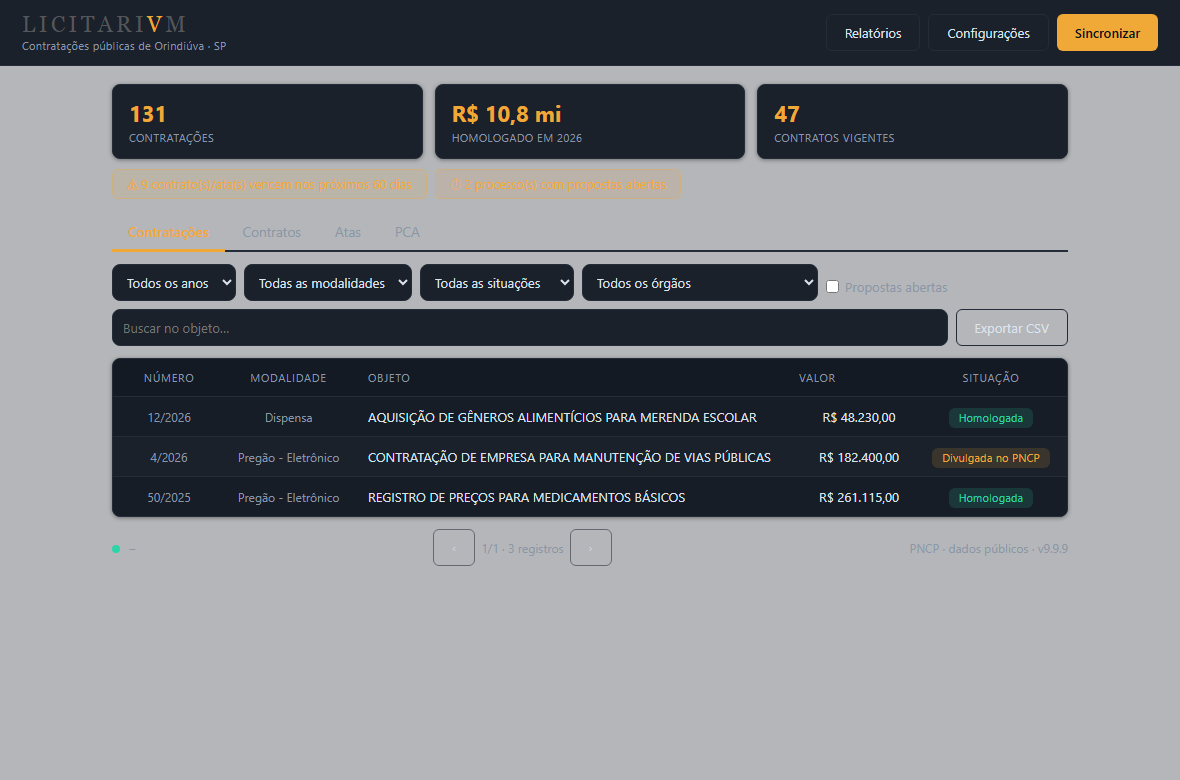
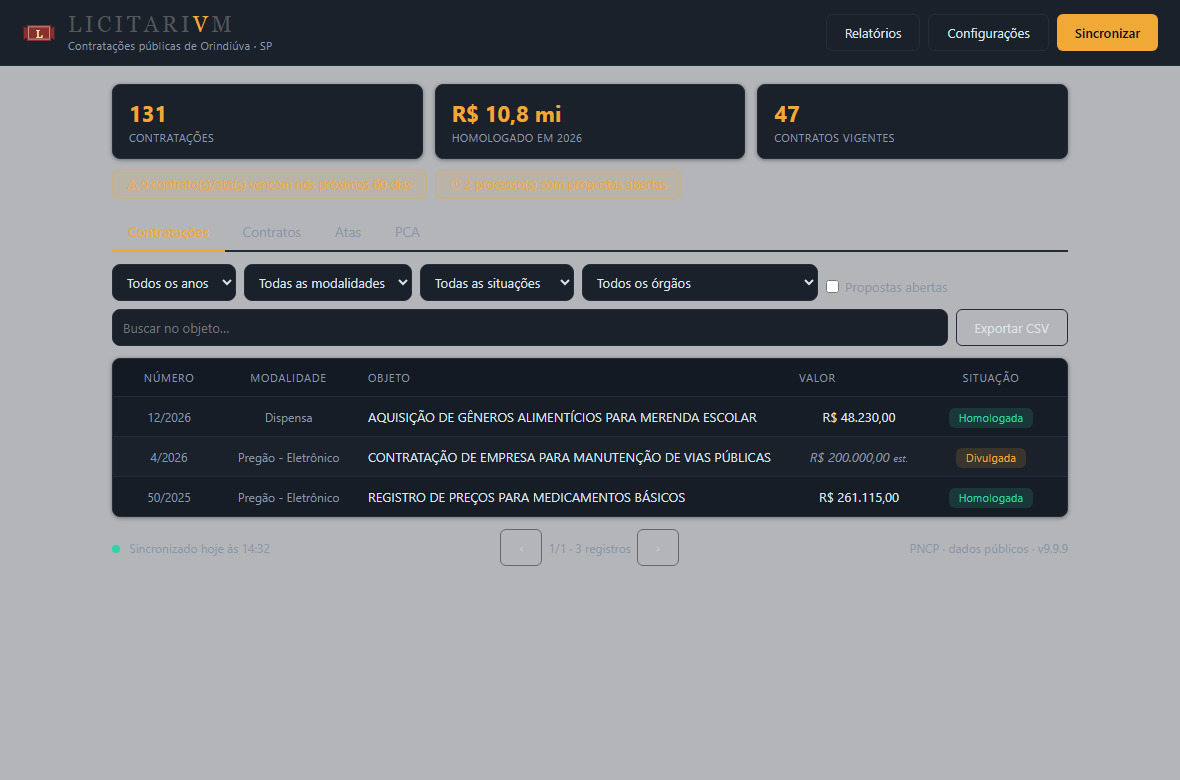
feat: refino estetico - valor estimado marcado, selo no cabecalho e mais
- valor sem homologacao sai em italico com "est." e title explicativo
  (antes um processo em andamento parecia ter valor final)
- selo (tabula ansata) ao lado do wordmark no cabecalho
- rodape mostra "Sincronizado hoje as HH:MM" (do sync_log) no lugar de "-"
- estado vazio contextual com selo em marca d'agua: sem filtro oferece
  sincronizar, com filtro oferece limpar
- botao "Limpar filtros" aparece quando ha filtro ativo
- barras de rolagem na paleta do tema
- badge de situacao encurtada ("Divulgada"), texto completo no title
- titulo da janela com municipio (Licitarium - Orindiuva/SP)
- densidade das listas (confortavel/compacta) nas configuracoes
- 6 testes E2E novos (13 no total)

diff --git a/ui/index.html b/ui/index.html
@@ -31,6 +31,17 @@
 
   .mark { font-family:Georgia,'Times New Roman',serif; letter-spacing:.16em; }
   .mark b { color:var(--mark-v); font-weight:400; }
+  .marca { display:flex; align-items:center; gap:12px; }
+  .marca > svg { flex:none; width:34px; height:34px; }
+
+  /* barras de rolagem na paleta do tema */
+  * { scrollbar-color: var(--border) transparent; scrollbar-width: thin; }
+  ::-webkit-scrollbar { width:11px; height:11px; }
+  ::-webkit-scrollbar-track { background:transparent; }
+  ::-webkit-scrollbar-thumb { background:var(--border); border-radius:6px;
+    border:2px solid transparent; background-clip:content-box; }
+  ::-webkit-scrollbar-thumb:hover { background:var(--muted);
+    background-clip:content-box; }
 
   button { font-family:var(--font-ui); cursor:pointer; }
   .btn { background:var(--accent); color:var(--accent-fg); border:none;
@@ -106,11 +117,15 @@
 
   .filtros { display:flex; gap:8px; margin-bottom:12px; flex-wrap:wrap; }
   .filtros input[type=search] { flex:1; min-width:170px; }
+  #btn-limpar { white-space:nowrap; }
 
   .lista { overflow:hidden; }
   .linha { display:grid; gap:12px; padding:11px 16px; align-items:center;
            font-size:13px; cursor:pointer; border:none; background:none;
            width:100%; text-align:left; color:var(--text); }
+  [data-densidade="compacta"] .linha { padding:6px 12px; font-size:12.5px; }
+  [data-densidade="compacta"] .kpi { padding:9px 13px; }
+  [data-densidade="compacta"] .kpi .n { font-size:19px; }
   .linha:not(.cab):nth-child(even) {
     background:color-mix(in srgb, var(--surface2) 55%, var(--surface)); }
   .linha:hover, .linha:focus { background:var(--surface2); }
@@ -135,6 +150,9 @@
          white-space:nowrap; }
   [data-theme="pergaminho"] .num { font-family:Georgia,serif; }
   .dim { color:var(--muted); font-size:12px; }
+  /* valor sem homologação: é estimativa, não pode passar por valor final */
+  .est { font-style:italic; color:var(--muted); }
+  .est small { font-size:9.5px; letter-spacing:.04em; }
   /* colunas curtas centralizadas (mesmo tratamento dos relatórios) */
   .g-contratacoes > :nth-child(1), .g-contratacoes > :nth-child(2),
   .g-contratacoes > :nth-child(5),
@@ -142,7 +160,10 @@
   .g-atas > :nth-child(1), .g-atas > :nth-child(2), .g-atas > :nth-child(4),
   .g-pca > :nth-child(1), .g-pca > :nth-child(3) { text-align:center; }
   .linha .obj { display:block; text-align:justify; hyphens:auto; }
-  .vazio { padding:34px; text-align:center; color:var(--muted); font-size:13px; }
+  .vazio { padding:30px 34px 34px; text-align:center; color:var(--muted);
+           font-size:13px; }
+  .vazio svg { width:74px; height:74px; opacity:.28; margin-bottom:6px; }
+  .vazio p { margin-bottom:12px; }
 
   .rodape { display:flex; justify-content:space-between; align-items:center;
             margin-top:12px; font-size:12px; color:var(--muted); gap:10px; flex-wrap:wrap; }
@@ -227,7 +248,10 @@
 <!-- ═══ APP ═══ -->
 <div id="app" class="oculto">
   <header>
-    <div class="mark">LICITARI<b>V</b>M<small id="sub-municipio"></small></div>
+    <div class="marca">
+      <svg viewBox="0 0 64 64" aria-hidden="true" id="svg-selo"></svg>
+      <div class="mark">LICITARI<b>V</b>M<small id="sub-municipio"></small></div>
+    </div>
     <div style="display:flex; gap:8px">
       <button class="btn ghost" id="btn-relatorios">Relatórios</button>
       <button class="btn ghost" id="btn-config">Configurações</button>
@@ -270,6 +294,7 @@
         <input type="checkbox" id="f-vigentes"> Vigentes</label>
       <input type="search" id="f-busca" placeholder="Buscar no objeto…"
              aria-label="Buscar">
+      <button class="btn ghost oculto" id="btn-limpar">✕ Limpar filtros</button>
       <button class="btn ghost" id="btn-csv">Exportar CSV</button>
     </div>
     <div class="card lista" id="lista"></div>
@@ -373,6 +398,11 @@
         <option value="grande">Grande</option>
         <option value="extra">Extra grande</option>
       </select>
+      <label for="cfg-densidade">Densidade das listas</label>
+      <select id="cfg-densidade" style="width:100%">
+        <option value="confortavel">Confortável — linhas com respiro</option>
+        <option value="compacta">Compacta — mais registros na tela</option>
+      </select>
     </div>
     <div class="card cfg">
       <h2>Município</h2>
@@ -448,6 +478,16 @@ const ESTANDARTE = `
   <text x="32" y="62.5" font-family="Georgia, serif" font-size="4.6" letter-spacing="1"
         fill="#2b2115" text-anchor="middle">MMXXVI</text>`;
 
+// selo oficial (design/icone-t1.svg): tabula ansata com L capitular
+const SELO = `
+  <polygon points="11,25 3,19 3,45 11,39" fill="#8b2e2e"/>
+  <polygon points="53,25 61,19 61,45 53,39" fill="#8b2e2e"/>
+  <rect x="9" y="17" width="46" height="30" fill="#8b2e2e"/>
+  <rect x="12.5" y="20.5" width="39" height="23" fill="none" stroke="#f5efe2"
+        stroke-width="1.4" opacity=".7"/>
+  <text x="32" y="40.5" font-family="Georgia, 'Times New Roman', serif"
+        font-size="21" fill="#f5efe2" text-anchor="middle">L</text>`;
+
 const estado = { tipo:"contratacoes", pagina:1, total:0, municipio:null,
                  ord:null, dir:"desc" };
 let api = null;
@@ -457,10 +497,12 @@ window.addEventListener("pywebviewready", async () => {
   api = window.pywebview.api;
   document.querySelectorAll("#svg-estandarte-wiz, #svg-estandarte-sobre")
     .forEach(s => s.innerHTML = ESTANDARTE);
+  $("svg-selo").innerHTML = SELO;
   const e = await api.get_estado();
   aplicarTema(e.tema || "portal", false);
   aplicarLargura(e.largura || "compacta", false);
   aplicarFonte(e.fonte || "normal", false);
+  aplicarDensidade(e.densidade || "confortavel", false);
   $("sobre-versao").textContent = e.versao;
   $("rodape-versao").textContent = `PNCP · dados públicos · v${e.versao}`;
   if (!e.ibge) { iniciarWizard(); return; }
@@ -491,6 +533,14 @@ function aplicarFonte(v, salvar = true) {
 }
 $("cfg-fonte").addEventListener("change",
   () => aplicarFonte($("cfg-fonte").value));
+
+function aplicarDensidade(v, salvar = true) {
+  document.documentElement.dataset.densidade = v;
+  $("cfg-densidade").value = v;
+  if (salvar && api) api.set_config("densidade", v);
+}
+$("cfg-densidade").addEventListener("change",
+  () => aplicarDensidade($("cfg-densidade").value));
 
 // ── wizard ────────────────────────────────────────────────────────────────
 let wizEscolha = null;
@@ -537,6 +587,8 @@ async function iniciarApp(e) {
   $("app").classList.remove("oculto");
   $("sub-municipio").textContent =
     `Contratações públicas de ${e.municipio} · ${e.uf}`;
+  api.set_titulo(`Licitarium — ${e.municipio}/${e.uf}`);
+  mostrarUltimaSync(e.sincronizado_em);
   renderKpis(e.kpis);
   await carregarFiltros();
   await carregarLista();
@@ -558,6 +610,16 @@ async function iniciarApp(e) {
       if (!r.ok) alvo.textContent = `Falha na atualização: ${r.erro}`;
     });
   });
+}
+
+function mostrarUltimaSync(iso) {
+  if (!iso) { $("sync-msg").textContent = "nunca sincronizado"; return; }
+  const d = new Date(iso);
+  const hora = d.toLocaleTimeString("pt-BR", {hour:"2-digit", minute:"2-digit"});
+  const hoje = new Date().toDateString() === d.toDateString();
+  $("sync-msg").textContent = hoje
+    ? `Sincronizado hoje às ${hora}`
+    : `Sincronizado em ${d.toLocaleDateString("pt-BR")} às ${hora}`;
 }
 
 function renderKpis(k) {
@@ -613,6 +675,23 @@ function filtrosAtuais() {
 }
 
 // [rótulo, chave de ordenação na whitelist do backend — null = não ordenável]
+const CAMPOS_FILTRO = ["f-ano", "f-modalidade", "f-situacao", "f-orgao",
+                       "f-busca"];
+const CAIXAS_FILTRO = ["f-propostas", "f-vigentes"];
+
+function temFiltroAtivo() {
+  return CAMPOS_FILTRO.some(id => $(id).value)
+      || CAIXAS_FILTRO.some(id => $(id).checked);
+}
+
+function limparFiltros() {
+  CAMPOS_FILTRO.forEach(id => $(id).value = "");
+  CAIXAS_FILTRO.forEach(id => $(id).checked = false);
+  estado.pagina = 1;
+  carregarLista();
+}
+$("btn-limpar").addEventListener("click", limparFiltros);
+
 const COLUNAS = {
   contratacoes: [["Número","numero"], ["Modalidade","modalidade"],
                  ["Objeto","objeto"], ["Valor","valor"],
@@ -639,7 +718,19 @@ function badgeSituacao(s) {
   if (!s) return `<span class="badge mut">–</span>`;
   const cl = /homolog/i.test(s) ? "ok" : /divulgad|aberta|andamento/i.test(s)
     ? "warn" : "mut";
-  return `<span class="badge ${cl}">${esc(s)}</span>`;
+  // "Divulgada no PNCP" -> "Divulgada" (o contexto todo é o PNCP)
+  const curto = String(s).replace(/\s+no\s+PNCP$/i, "");
+  return `<span class="badge ${cl}" title="${esc(s)}">${esc(curto)}</span>`;
+}
+
+// valor da contratação: homologado é definitivo, estimado é estimativa —
+// exibir os dois igual faria um processo em andamento parecer fechado
+function valorContratacao(d) {
+  if (d.valor_homologado != null) return dinheiro(d.valor_homologado);
+  if (d.valor_estimado != null)
+    return `<span class="est" title="Valor estimado — sem homologação
+      registrada no PNCP">${dinheiro(d.valor_estimado)} <small>est.</small></span>`;
+  return "–";
 }
 
 function renderLinha(tipo, d) {
@@ -647,7 +738,7 @@ function renderLinha(tipo, d) {
     return `<span class="dim">${d.sequencial ?? "–"}/${d.ano ?? ""}</span>
       <span class="dim">${esc(d.modalidade_nome ?? "–")}</span>
       <span class="obj">${esc(d.objeto ?? "–")}</span>
-      <span class="num">${dinheiro(d.valor_homologado ?? d.valor_estimado)}</span>
+      <span class="num">${valorContratacao(d)}</span>
       <span style="justify-self:center">${badgeSituacao(d.situacao)}</span>`;
   if (tipo === "contratos")
     return `<span class="dim">${esc(numContrato(d))}</span>
@@ -682,8 +773,19 @@ async function carregarLista() {
   const linhas = r.itens.map(d =>
     `<button class="linha ${g}" data-nc="${esc(d.numero_controle ?? d.id)}">` +
     renderLinha(estado.tipo, d) + `</button>`).join("");
-  $("lista").innerHTML = cab + (linhas ||
-    `<div class="vazio">Nenhum registro. Sincronize ou ajuste os filtros.</div>`);
+  const comFiltro = temFiltroAtivo();
+  $("btn-limpar").classList.toggle("oculto", !comFiltro);
+  const vazio = comFiltro
+    ? `<div class="vazio"><svg viewBox="0 0 64 64" aria-hidden="true">${SELO}</svg>
+        <p>Nenhum registro para estes filtros.</p>
+        <button class="btn ghost" id="vazio-limpar">✕ Limpar filtros</button></div>`
+    : `<div class="vazio"><svg viewBox="0 0 64 64" aria-hidden="true">${SELO}</svg>
+        <p>Nada neste acervo ainda.<br>Sincronize para baixar o que o município
+        publicou no PNCP.</p>
+        <button class="btn" id="vazio-sync">Sincronizar agora</button></div>`;
+  $("lista").innerHTML = cab + (linhas || vazio);
+  $("vazio-limpar")?.addEventListener("click", limparFiltros);
+  $("vazio-sync")?.addEventListener("click", () => api.sincronizar());
   $("lista").querySelectorAll("button.linha[data-nc]").forEach(b =>
     b.addEventListener("click", () => abrirDetalhe(b.dataset.nc)));
   $("lista").querySelectorAll(".cab span[data-ord]").forEach(s => {
@@ -954,7 +1056,7 @@ document.addEventListener("keydown", e => {
 $("btn-sync").addEventListener("click", () => api.sincronizar());
 window.onSyncProgresso = st => {
   $("sync-dot").classList.toggle("rodando", st.rodando);
-  $("sync-msg").textContent = st.rodando ? st.msg : "–";
+  if (st.rodando && st.msg) $("sync-msg").textContent = st.msg;
   $("btn-sync").disabled = st.rodando;
 };
 window.onSyncFim = async st => {

diff --git a/tests-e2e/app.spec.js b/tests-e2e/app.spec.js
@@ -54,6 +54,51 @@ test("tema troca via configurações e persiste via set_config",
   expect(salvo.v).toBe("observatorio");
 });
 
+test("valor sem homologação é marcado como estimado", async ({ page }) => {
+  const linhas = page.locator(".linha:not(.cab)");
+  // X-1 tem homologado: valor limpo, sem marca
+  await expect(linhas.nth(0).locator(".est")).toHaveCount(0);
+  // X-2 só tem estimado: itálico + "est."
+  await expect(linhas.nth(1).locator(".est")).toContainText("est.");
+  await expect(linhas.nth(1).locator(".est")).toContainText("200.000,00");
+});
+
+test("badge de situação encurtada mantém o texto completo no title",
+    async ({ page }) => {
+  const badge = page.locator(".linha:not(.cab)").nth(1).locator(".badge");
+  await expect(badge).toHaveText("Divulgada");
+  await expect(badge).toHaveAttribute("title", "Divulgada no PNCP");
+});
+
+test("limpar filtros aparece com filtro ativo e restaura a lista",
+    async ({ page }) => {
+  await expect(page.locator("#btn-limpar")).toBeHidden();
+  await page.locator("#f-busca").fill("merenda");
+  await expect(page.locator("#btn-limpar")).toBeVisible();
+  await page.locator("#btn-limpar").click();
+  await expect(page.locator("#f-busca")).toHaveValue("");
+  await expect(page.locator("#btn-limpar")).toBeHidden();
+});
+
+test("selo, título da janela e última sincronização no rodapé",
+    async ({ page }) => {
+  await expect(page.locator("#svg-selo polygon").first()).toBeVisible();
+  const titulo = await page.evaluate(() =>
+    window.__chamadas.find(c => c.metodo === "set_titulo"));
+  expect(titulo.t).toBe("Licitarium — Orindiúva/SP");
+  await expect(page.locator("#sync-msg")).toContainText("Sincronizado");
+});
+
+test("densidade compacta aplica e persiste", async ({ page }) => {
+  await page.locator("#btn-config").click();
+  await page.locator("#cfg-densidade").selectOption("compacta");
+  await expect(page.locator("html"))
+    .toHaveAttribute("data-densidade", "compacta");
+  const salvo = await page.evaluate(() => window.__chamadas.find(
+    c => c.metodo === "set_config" && c.k === "densidade"));
+  expect(salvo.v).toBe("compacta");
+});
+
 test("modal trava o fundo, recebe foco e prende o Tab", async ({ page }) => {
   await page.locator("#btn-relatorios").click();
   await expect(page.locator("body")).toHaveClass(/travado/);

diff --git a/tests-e2e/harness.js b/tests-e2e/harness.js
@@ -12,7 +12,7 @@ const DADOS = {
       situacao: "Homologada", data_publicacao: "2026-03-14" },
     { numero_controle: "X-2", ano: 2026, sequencial: 4,
       modalidade_nome: "Pregão - Eletrônico", objeto: "Contratação de empresa para manutenção de vias públicas",
-      valor_estimado: 200000, valor_homologado: 182400,
+      valor_estimado: 200000, valor_homologado: null,
       situacao: "Divulgada no PNCP", data_publicacao: "2026-05-02" },
     { numero_controle: "X-3", ano: 2025, sequencial: 50,
       modalidade_nome: "Pregão - Eletrônico", objeto: "Registro de preços para medicamentos básicos",
@@ -43,8 +43,9 @@ function scriptPonte() {
     window.pywebview = { api: {
       get_estado: async () => ({ versao: "9.9.9", municipio: "Orindiúva",
         uf: "SP", ibge: "3534203", tema: "portal", largura: "compacta",
+        fonte: "normal", densidade: "confortavel",
         limite_dispensa_compras: "62639.92", limite_dispensa_obras: "125279.84",
-        last_sync: "2026-07-29",
+        last_sync: "2026-07-29", sincronizado_em: "2026-07-29T14:32:00",
         kpis: { contratacoes: 131, homologado_ano: 10828702.73, vigentes: 47,
                 vencendo_60: 9, propostas_abertas: 2 } }),
       filtros_disponiveis: async () => ({ anos: [2026, 2025, 2024],
@@ -65,6 +66,8 @@ function scriptPonte() {
       checar_atualizacao: async () => null,
       set_config: async (k, v) => {
         window.__chamadas.push({ metodo: "set_config", k, v }); return true; },
+      set_titulo: async t => {
+        window.__chamadas.push({ metodo: "set_titulo", t }); return true; },
       listar_orgaos: async () => [],
       ultimo_log: async () => [],
       municipios: async () => [],

diff --git a/licitarium.py b/licitarium.py
@@ -162,6 +162,7 @@ class Api:
                     "tema": cfg.get("tema", "portal"),
                     "largura": cfg.get("largura", "compacta"),
                     "fonte": cfg.get("fonte", "normal"),
+                    "densidade": cfg.get("densidade", "confortavel"),
                     "limite_dispensa_compras":
                         cfg.get("limite_dispensa_compras",
                                 str(relatorios.LIMITE_PADRAO_COMPRAS)),
@@ -169,6 +170,9 @@ class Api:
                         cfg.get("limite_dispensa_obras",
                                 str(relatorios.LIMITE_PADRAO_OBRAS)),
                     "last_sync": cfg.get("last_sync_contratacoes"),
+                    "sincronizado_em": db.execute(
+                        "SELECT MAX(iniciado_em) FROM sync_log"
+                        " WHERE status='ok'").fetchone()[0],
                     "kpis": self._kpis(db)}
         finally:
             db.close()
@@ -198,9 +202,14 @@ class Api:
                 "vencendo_60": vencendo_60,
                 "propostas_abertas": propostas_abertas}
 
+    def set_titulo(self, texto):
+        if self._janela:
+            self._janela.set_title(texto)
+        return True
+
     def set_config(self, chave, valor):
-        if chave not in ("tema", "largura", "fonte", "limite_dispensa_compras",
-                         "limite_dispensa_obras"):
+        if chave not in ("tema", "largura", "fonte", "densidade",
+                         "limite_dispensa_compras", "limite_dispensa_obras"):
             return False
         db = abrir_db()
         try:
@@ -625,8 +634,15 @@ del "%~f0"
 
 def main():
     api = Api()
+    db = abrir_db()
+    try:  # título já nasce com o município (a UI reconfirma no boot)
+        municipio = pncp._config(db, "municipio_nome")
+        uf = pncp._config(db, "municipio_uf")
+    finally:
+        db.close()
+    titulo = f"Licitarium — {municipio}/{uf}" if municipio else "Licitarium"
     api._janela = webview.create_window(
-        "Licitarium", str(DIR_APP / "ui" / "index.html"), js_api=api,
+        titulo, str(DIR_APP / "ui" / "index.html"), js_api=api,
         width=1100, height=740, min_size=(900, 600))
     webview.start()
 
